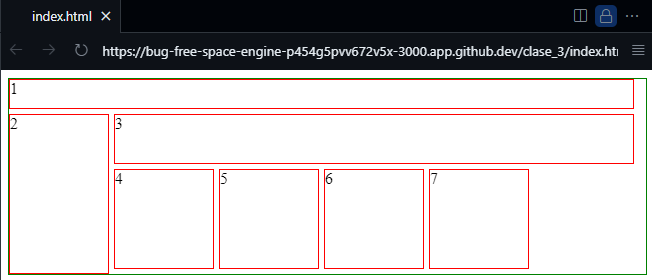
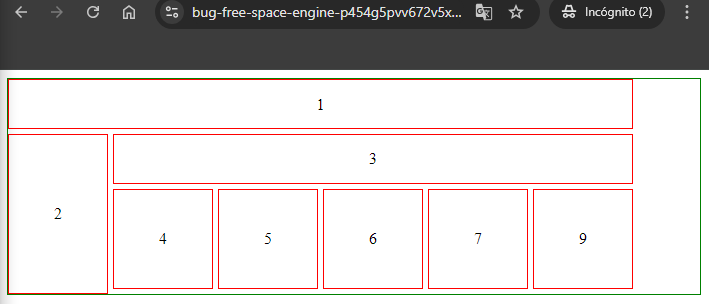
dasdas

diff --git a/grid_templates/index.html b/grid_templates/index.html
@@ -1,0 +1,55 @@
+<!DOCTYPE html>
+<html lang="en">
+<head>
+    <meta charset="UTF-8">
+    <meta name="viewport" content="width=device-width, initial-scale=1.0">
+    <title>Document</title>
+</head>
+<style>
+    .grid-container {
+    border: 1px solid green;
+    display: grid;
+    /* grid-template-columns: 100px 100px 100px 100px 100px 100px;
+    grid-template-rows: 30px 50px 100px; */
+    
+    grid-template-areas: 
+    'header header header header'
+    'sidebar m m rbar'
+    'sidebar m m rbar'
+    ;
+    /* grid-template-areas: 'pepe pepe pepe'; */
+
+    column-gap: 5px;
+    row-gap: 5px;
+}
+
+.grid-item {
+    height: 100%;
+    width: 100%;
+    border: 1px solid red;
+}
+
+.main{
+  grid-area: m;
+}
+
+#elem1{
+  grid-area: header;
+}
+
+#elem2{
+  grid-area: sidebar;
+  height: 100px;
+}
+</style>
+<body>
+    <div class="grid-container">
+
+        <div class="grid-item" id="elem1">1</div>
+        <div class="grid-item" id="elem2">2</div>
+        <div class="grid-item main">3</div>
+       
+  
+      </div>
+</body>
+</html>

diff --git a/clase_3/youtube.html b/clase_3/youtube.html
@@ -1,0 +1,40 @@
+<!DOCTYPE html>
+<html lang="en">
+  <head>
+    <meta charset="UTF-8">
+    <meta name="viewport" content="width=device-width, initial-scale=1.0">
+    <link rel="stylesheet" href="styles_yt.css">
+  </head>
+  <body>
+   
+    <div class="grid-container">
+
+      <div class="grid-item header">
+        <p>1</p>
+      </div>
+      <div class="grid-item lsidebar">2</div>
+      <div class="grid-item main">3</div>
+      <div class="grid-item ">4</div>
+      <div class="grid-item">5</div>
+      <div class="grid-item">6</div>
+      <div class="grid-item">7</div>
+      <div class="grid-item">9</div> 
+      <!-- <div class="grid-item">10</div>
+      <div class="grid-item">11</div>
+      <div class="grid-item">12</div>
+      <div class="grid-item">13</div>  -->
+      <!-- <div class="grid-item footer">8</div> -->
+
+    </div>
+
+
+  </body>
+
+  <script>
+
+    document.getElementById()
+
+    $('.grid-item.header')
+
+  </script>
+</html>

diff --git a/clase_3/styles_yt.css b/clase_3/styles_yt.css
@@ -1,0 +1,40 @@
+.grid-container {
+    border: 1px solid green;
+    display: grid;
+    grid-template-columns: 100px 100px 100px 100px 100px 100px;
+    grid-template-rows: 50px 50px 100px;
+
+    column-gap: 5px;
+    row-gap: 5px;
+}
+
+.grid-item {
+    height: 100%x;
+    width: 100%px;
+    border: 1px solid red;
+    align-content: center;
+    text-align: center;
+}
+
+.grid-item.header {
+    grid-column-start: 1;
+    grid-column-end: 7;
+}
+
+.lsidebar {
+    grid-row-start: 2;
+    grid-row-end: 5;
+}
+
+.main {
+    grid-column-start: 2;
+    grid-column-end: 7;
+    grid-row-start: 2;
+    grid-row-end: 2;
+}
+
+.footer {
+    grid-column-start: 1;
+    grid-column-end: 7;
+
+}

diff --git a/clase_3/styles copy.css b/clase_3/styles copy.css
@@ -1,0 +1,38 @@
+.grid-container {
+    border: 1px solid green;
+    display: grid;
+    grid-template-columns: 100px 100px 100px 100px 100px 100px;
+    grid-template-rows: 30px 50px 100px;
+
+    column-gap: 5px;
+    row-gap: 5px;
+}
+
+.grid-item {
+    height: 100%x;
+    width: 100%px;
+    border: 1px solid red;
+}
+
+.grid-item.header {
+    grid-column-start: 1;
+    grid-column-end: 7;
+}
+
+.lsidebar {
+    grid-row-start: 2;
+    grid-row-end: 5;
+}
+
+.main {
+    grid-column-start: 2;
+    grid-column-end: 7;
+    grid-row-start: 2;
+    grid-row-end: 2;
+}
+
+.footer {
+    grid-column-start: 1;
+    grid-column-end: 5;
+
+}
